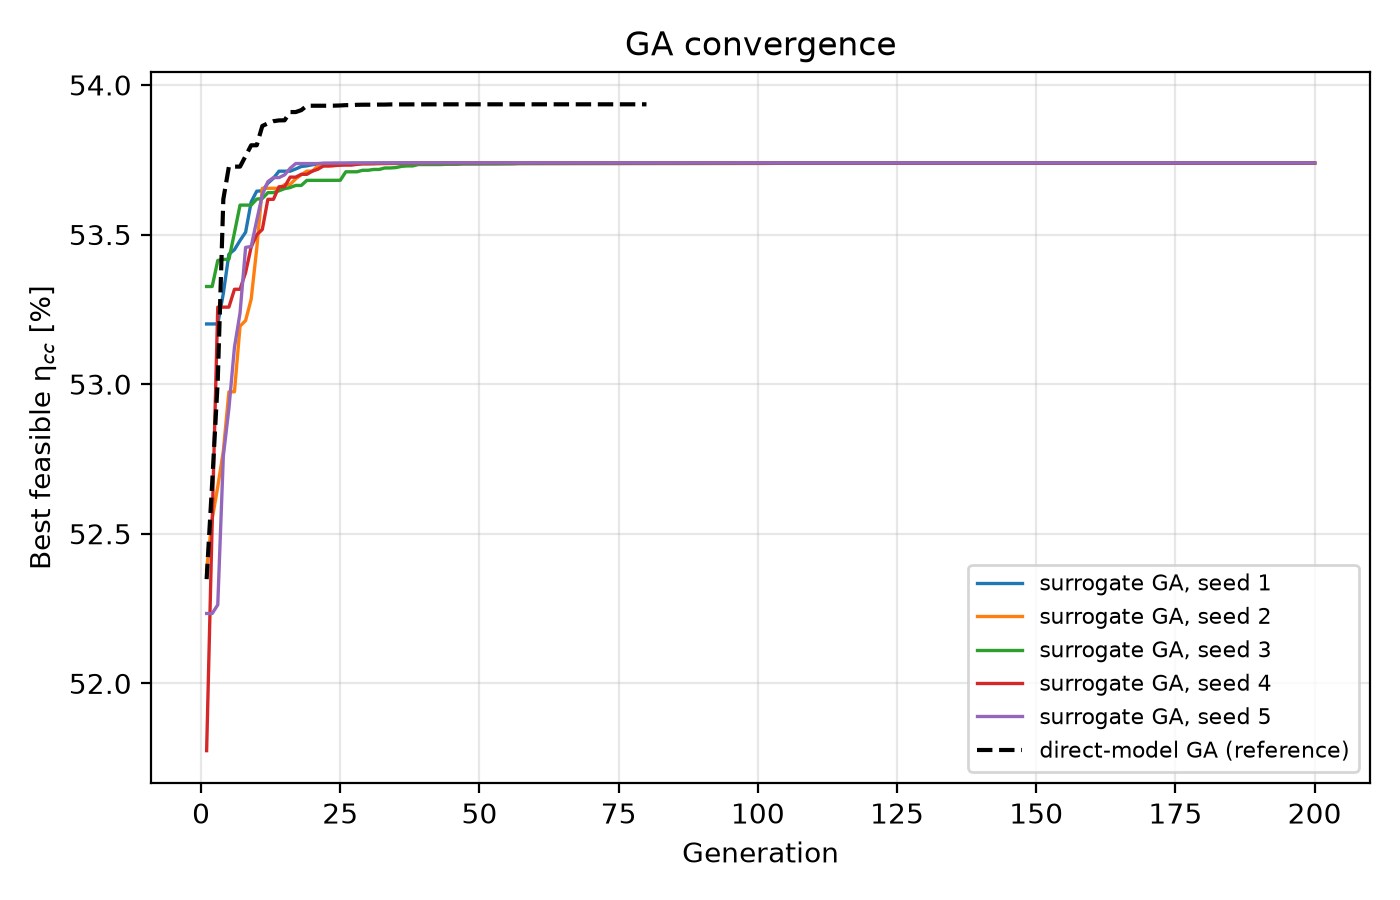
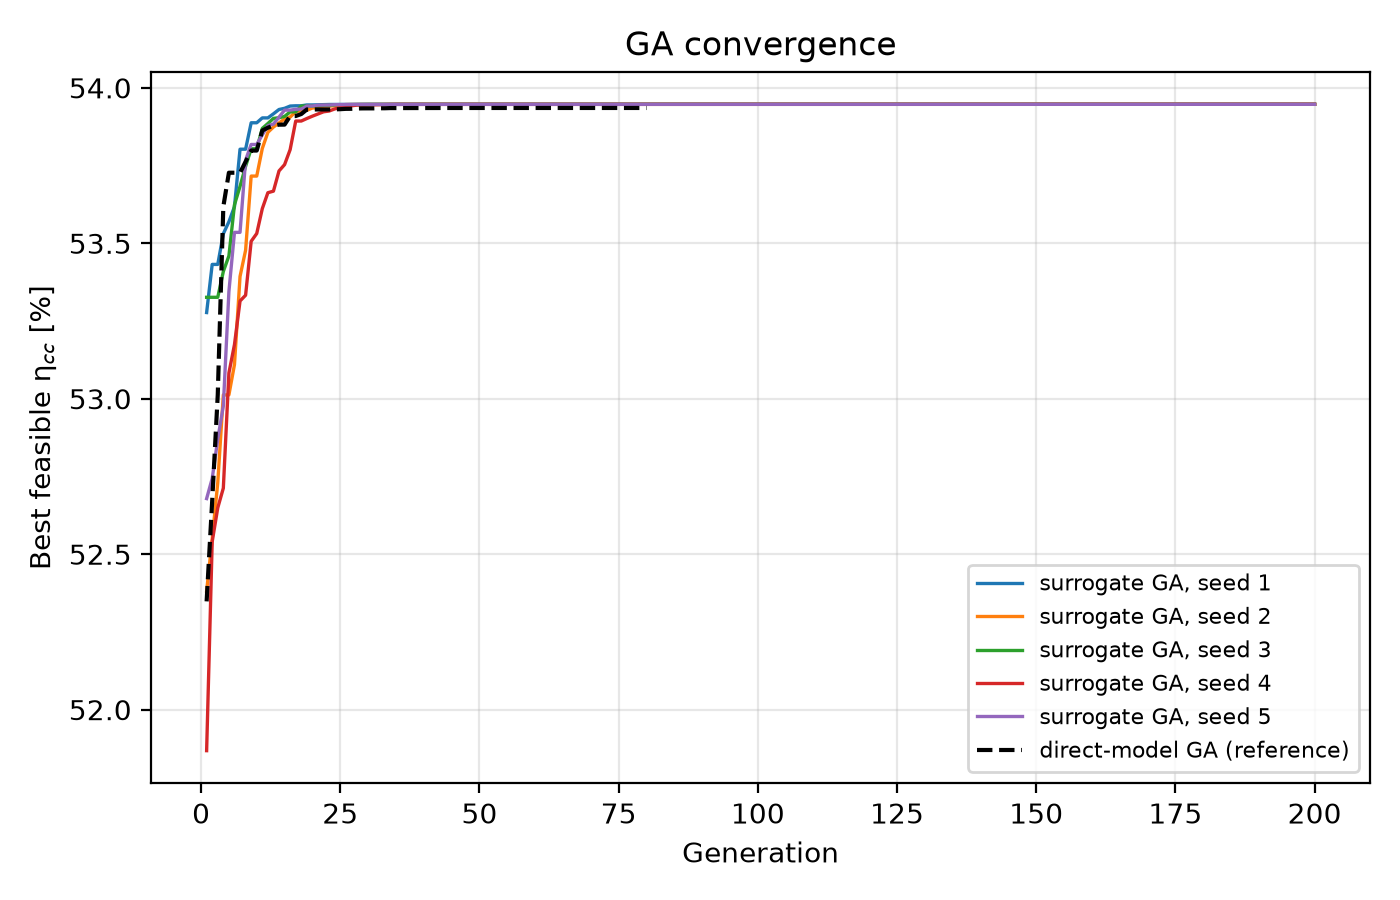
Phase 7: tolerance band on surrogate pinch constraint
- Predicted m_pinch >= -0.05 K counts as satisfied in the surrogate GA: the true margin is zero by construction and ANN noise of ~1e-4 K was blocking feasible designs
- Surrogate optimum now rp 16.05, TIT 1500 K, Ps 60 bar, Pcond 0.05 bar: eta_cc 53.935 % (direct), gap 0.012 pp, matching the direct-model GA
- Regenerated optimum, history, surrogate vs direct GA comparison and Phase 7 figures

diff --git a/src/optimize.py b/src/optimize.py
@@ -28,11 +28,16 @@ MAX_REFINEMENTS = 3
 REFINE_POINTS = 50
 REFINE_HALF_WIDTH = 0.10
 ACTIVE_FRACTION = 0.02
+# The true pinch margin is identically 0 by construction unless the economizer cold end
+# crosses; the surrogate reproduces that zero only to ~1e-4 K, which would randomly mark
+# feasible designs infeasible. A predicted m_pinch >= -0.05 K counts as satisfied: ~20x the
+# ANN test RMSE, and far smaller than real cold-end crosses (-0.7 to -47 K in the DOE).
+PINCH_NOISE_BAND = 0.05
 
 
 def surrogate_margins(pred, T_hrsg_max):
     return {"m_quality": pred["m_quality"], "m_hrsg_inlet": T_hrsg_max - pred["T4"], "m_stack": pred["m_stack"],
-            "m_pinch": pred["m_pinch"], "m_approach": pred["m_approach"]}
+            "m_pinch": pred["m_pinch"] + PINCH_NOISE_BAND, "m_approach": pred["m_approach"]}
 
 
 def constraint_matrix(margins):
